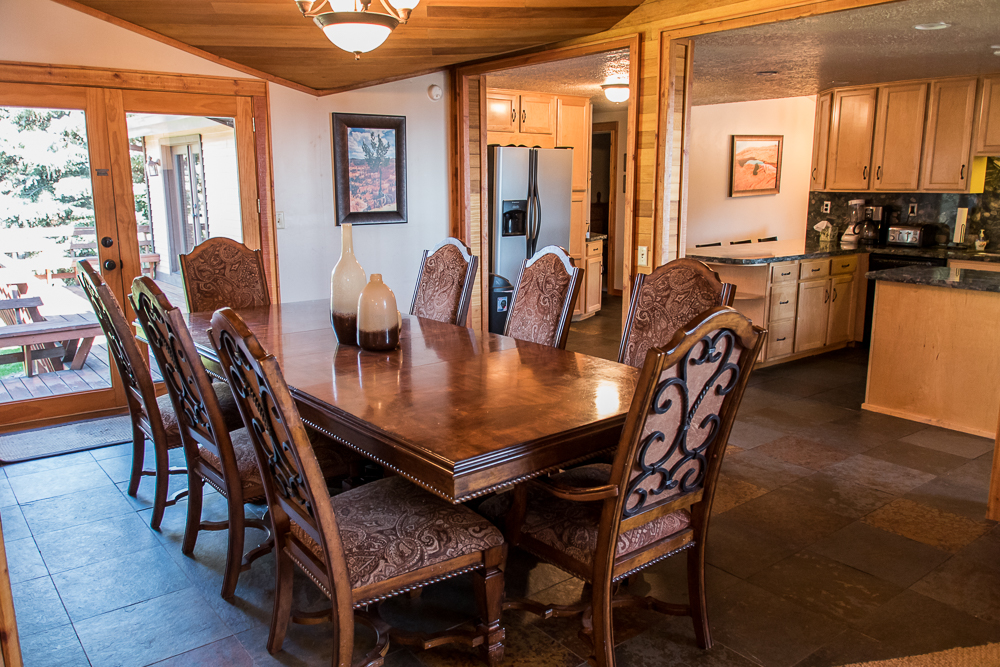
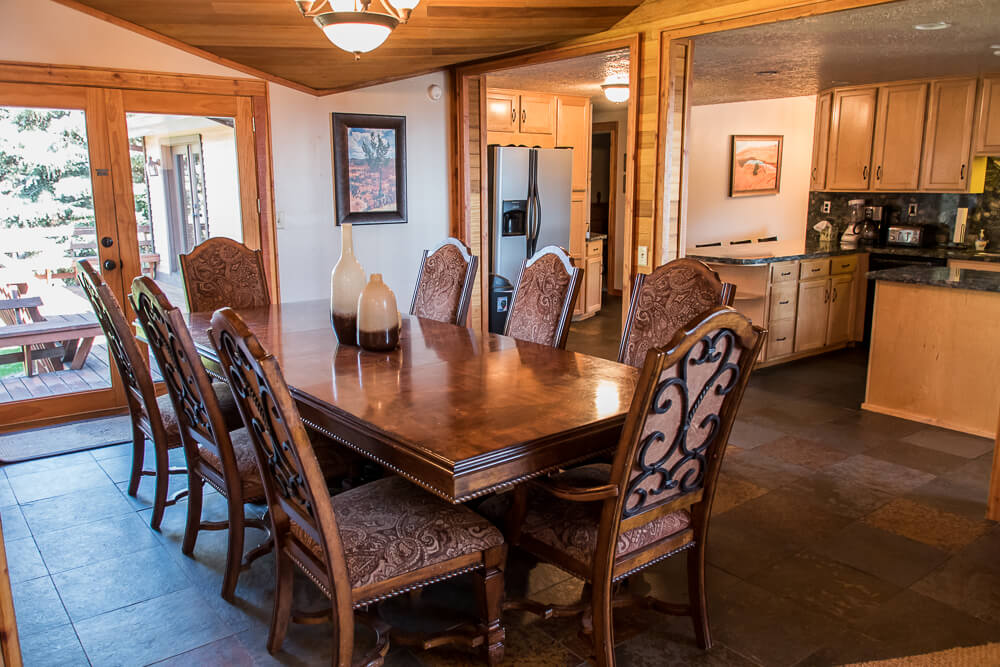
optimized photos and provided thumbnails

diff --git a/index.html b/index.html
@@ -245,23 +245,23 @@
 
 					<div class="row gallery-item">
                         <div class="col-md-3 animated fadeInUp">
-							<a href="img/pics/DSC_8166.jpg" title="This is an image title" data-lightbox-gallery="gallery1" data-lightbox-hidpi="img/pics/DSC_8166.jpg">
-								<img src="img/pics/DSC_8166.jpg" class="img-responsive" alt="img">
+							<a href="img/pics/DSC_8166.jpg" title="Master Bedroom" data-lightbox-gallery="gallery1" data-lightbox-hidpi="img/pics/DSC_8166.jpg">
+								<img src="img/pre/DSC_8166.jpg" class="img-responsive" alt="img">
 							</a>
 						</div>
 						<div class="col-md-3 animated fadeInUp">
-							<a href="img/pics/DSC_8171.jpg" title="This is an image title" data-lightbox-gallery="gallery1" data-lightbox-hidpi="img/pics/DSC_8171.jpg">
-								<img src="img/pics/DSC_8171.jpg" class="img-responsive" alt="img">
+							<a href="img/pics/DSC_8171.jpg" title="Master Bathroom" data-lightbox-gallery="gallery1" data-lightbox-hidpi="img/pics/DSC_8171.jpg">
+								<img src="img/pre/DSC_8171.jpg" class="img-responsive" alt="img">
 							</a>
 						</div>
 						<div class="col-md-3 animated fadeInUp">
-							<a href="img/pics/DSC_8183.jpg" title="This is an image title" data-lightbox-gallery="gallery1" data-lightbox-hidpi="img/pics/DSC_8183.jpg">
-								<img src="img/pics/DSC_8183.jpg" class="img-responsive" alt="img">
+							<a href="img/pics/DSC_8183.jpg" title="Bedroom 1" data-lightbox-gallery="gallery1" data-lightbox-hidpi="img/pics/DSC_8183.jpg">
+								<img src="img/pre/DSC_8183.jpg" class="img-responsive" alt="img">
 							</a>
 						</div>
 						<div class="col-md-3 animated fadeInUp">
-							<a href="img/pics/DSC_8187.jpg" title="This is an image title" data-lightbox-gallery="gallery1" data-lightbox-hidpi="img/pics/DSC_8187.jpg">
-								<img src="img/pics/DSC_8187.jpg" class="img-responsive" alt="img">
+							<a href="img/pics/DSC_8187.jpg" title="Bedroom 2" data-lightbox-gallery="gallery1" data-lightbox-hidpi="img/pics/DSC_8187.jpg">
+								<img src="img/pre/DSC_8187.jpg" class="img-responsive" alt="img">
 							</a>
 						</div>
 					</div>
@@ -270,23 +270,23 @@
 
 					<div class="row gallery-item">
                         <div class="col-md-3 animated fadeInUp">
-							<a href="img/pics/DSC_8192.jpg" title="This is an image title" data-lightbox-gallery="gallery1" data-lightbox-hidpi="img/pics/DSC_8192.jpg">
-								<img src="img/pics/DSC_8192.jpg" class="img-responsive" alt="img">
+							<a href="img/pics/DSC_8192.jpg" title="Bunkhouse Entrance" data-lightbox-gallery="gallery1" data-lightbox-hidpi="img/pics/DSC_8192.jpg">
+								<img src="img/pre/DSC_8192.jpg" class="img-responsive" alt="img">
 							</a>
 						</div>
 						<div class="col-md-3 animated fadeInUp">
-							<a href="img/pics/DSC_8214.jpg" title="This is an image title" data-lightbox-gallery="gallery1" data-lightbox-hidpi="img/pics/DSC_8214.jpg">
-								<img src="img/pics/DSC_8214.jpg" class="img-responsive" alt="img">
+							<a href="img/pics/DSC_8214.jpg" title="Bunkhouse Rear View" data-lightbox-gallery="gallery1" data-lightbox-hidpi="img/pics/DSC_8214.jpg">
+								<img src="img/pre/DSC_8214.jpg" class="img-responsive" alt="img">
 							</a>
 						</div>
 						<div class="col-md-3 animated fadeInUp">
-							<a href="img/pics/DSC_8201.jpg" title="This is an image title" data-lightbox-gallery="gallery1" data-lightbox-hidpi="img/pics/DSC_8201.jpg">
-								<img src="img/pics/DSC_8201.jpg" class="img-responsive" alt="img">
+							<a href="img/pics/DSC_8201.jpg" title="Kitchen" data-lightbox-gallery="gallery1" data-lightbox-hidpi="img/pics/DSC_8201.jpg">
+								<img src="img/pre/DSC_8201.jpg" class="img-responsive" alt="img">
 							</a>
 						</div>
 						<div class="col-md-3 animated fadeInUp">
-							<a href="img/pics/DSC_8204.jpg" title="This is an image title" data-lightbox-gallery="gallery1" data-lightbox-hidpi="img/pics/DSC_8204.jpg">
-								<img src="img/pics/DSC_8204.jpg" class="img-responsive" alt="img">
+							<a href="img/pics/DSC_8204.jpg" title="Dining" data-lightbox-gallery="gallery1" data-lightbox-hidpi="img/pics/DSC_8204.jpg">
+								<img src="img/pre/DSC_8204.jpg" class="img-responsive" alt="img">
 							</a>
 						</div>
 					</div>
@@ -323,23 +323,23 @@
 
                     <div class="row gallery-item">
                         <div class="col-md-3 animated fadeInUp">
-							<a href="img/pics/DSC_8176.jpg" title="This is an image title" data-lightbox-gallery="gallery2" data-lightbox-hidpi="img/pics/DSC_8176.jpg">
-								<img src="img/pics/DSC_8176.jpg" class="img-responsive" alt="img">
+							<a href="img/pics/DSC_8176.jpg" title="Heated Indoor Pool" data-lightbox-gallery="gallery2" data-lightbox-hidpi="img/pics/DSC_8176.jpg">
+								<img src="img/pre/DSC_8176.jpg" class="img-responsive" alt="img">
 							</a>
 						</div>
 						<div class="col-md-3 animated fadeInUp">
-							<a href="img/pics/DSC_8197.jpg" title="This is an image title" data-lightbox-gallery="gallery2" data-lightbox-hidpi="img/pics/DSC_8197.jpg">
-								<img src="img/pics/DSC_8197.jpg" class="img-responsive" alt="img">
+							<a href="img/pics/DSC_8197.jpg" title="Game Room with Billiards and Foosball" data-lightbox-gallery="gallery2" data-lightbox-hidpi="img/pics/DSC_8197.jpg">
+								<img src="img/pre/DSC_8197.jpg" class="img-responsive" alt="img">
 							</a>
 						</div>
 						<div class="col-md-3 animated fadeInUp">
-							<a href="img/pics/DSC_8153.jpg" title="This is an image title" data-lightbox-gallery="gallery2" data-lightbox-hidpi="img/pics/DSC_8153.jpg">
-								<img src="img/pics/DSC_8153.jpg" class="img-responsive" alt="img">
+							<a href="img/pics/DSC_8153.jpg" title="Backyard, Patio, and Fire Pit" data-lightbox-gallery="gallery2" data-lightbox-hidpi="img/pics/DSC_8153.jpg">
+								<img src="img/pre/DSC_8153.jpg" class="img-responsive" alt="img">
 							</a>
 						</div>
 						<div class="col-md-3 animated fadeInUp">
-							<a href="img/pics/DSC_8148.jpg" title="This is an image title" data-lightbox-gallery="gallery2" data-lightbox-hidpi="img/pics/DSC_8148.jpg">
-								<img src="img/pics/DSC_8148.jpg" class="img-responsive" alt="img">
+							<a href="img/pics/DSC_8148.jpg" title="Grass field for sports and function" data-lightbox-gallery="gallery2" data-lightbox-hidpi="img/pics/DSC_8148.jpg">
+								<img src="img/pre/DSC_8148.jpg" class="img-responsive" alt="img">
 							</a>
 						</div>
 					</div>
@@ -348,23 +348,23 @@
 
 					<div class="row gallery-item">
                         <div class="col-md-3 animated fadeInUp">
-							<a href="img/pics/DSC_8146.jpg" title="This is an image title" data-lightbox-gallery="gallery2" data-lightbox-hidpi="img/pics/DSC_8146.jpg">
-								<img src="img/pics/DSC_8146.jpg" class="img-responsive" alt="img">
+							<a href="img/pics/DSC_8146.jpg" title="Front view of Hansen Hollow" data-lightbox-gallery="gallery2" data-lightbox-hidpi="img/pics/DSC_8146.jpg">
+								<img src="img/pre/DSC_8146.jpg" class="img-responsive" alt="img">
 							</a>
 						</div>
 						<div class="col-md-3 animated fadeInUp">
-							<a href="img/pics/DSC_8161.jpg" title="This is an image title" data-lightbox-gallery="gallery2" data-lightbox-hidpi="img/pics/DSC_8161.jpg">
-								<img src="img/pics/DSC_8161.jpg" class="img-responsive" alt="img">
+							<a href="img/pics/DSC_8161.jpg" title="Great Room" data-lightbox-gallery="gallery2" data-lightbox-hidpi="img/pics/DSC_8161.jpg">
+								<img src="img/pre/DSC_8161.jpg" class="img-responsive" alt="img">
 							</a>
 						</div>
 						<div class="col-md-3 animated fadeInUp">
-							<a href="img/pics/DSC_8191.jpg" title="This is an image title" data-lightbox-gallery="gallery2" data-lightbox-hidpi="img/pics/DSC_8191.jpg">
-								<img src="img/pics/DSC_8191.jpg" class="img-responsive" alt="img">
+							<a href="img/pics/DSC_8191.jpg" title="Family Room" data-lightbox-gallery="gallery2" data-lightbox-hidpi="img/pics/DSC_8191.jpg">
+								<img src="img/pre/DSC_8191.jpg" class="img-responsive" alt="img">
 							</a>
 						</div>
 						<div class="col-md-3 animated fadeInUp">
-							<a href="img/pics/DSC_8194.jpg" title="This is an image title" data-lightbox-gallery="gallery2" data-lightbox-hidpi="img/pics/DSC_8194.jpg">
-								<img src="img/pics/DSC_8194.jpg" class="img-responsive" alt="img">
+							<a href="img/pics/DSC_8194.jpg" title="Entrance Sitting Area" data-lightbox-gallery="gallery2" data-lightbox-hidpi="img/pics/DSC_8194.jpg">
+								<img src="img/pre/DSC_8194.jpg" class="img-responsive" alt="img">
 							</a>
 						</div>
 					</div>
